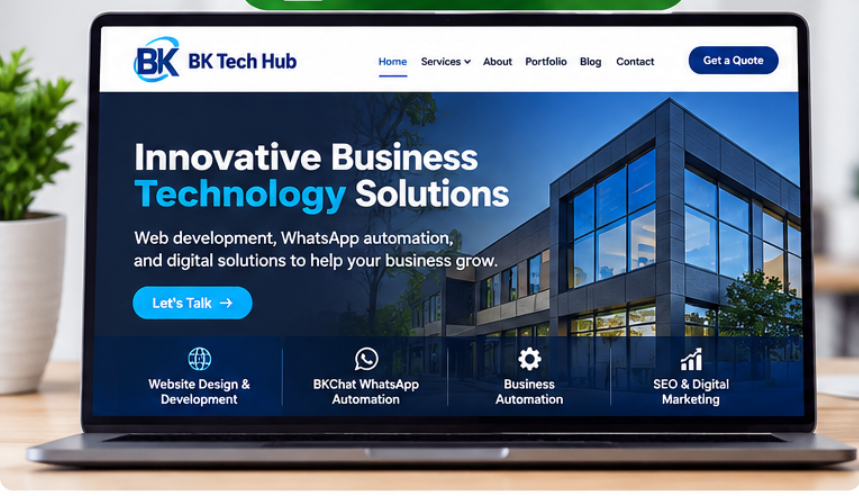
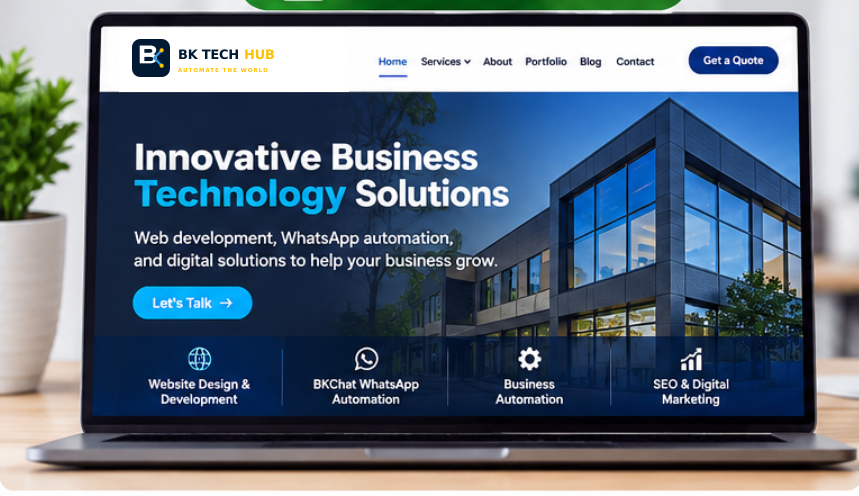
Update service image and alt text in WebsiteCreationPage component

Changed region(s): [[0.1513, 0.0605, 0.3632, 0.1815]]

diff --git a/frontend/components/services/website-creation-page.tsx b/frontend/components/services/website-creation-page.tsx
@@ -7,7 +7,7 @@ import { Button } from "@/components/ui/button";
 import { websiteCreationContent } from "@/content/website-creation";
 import { getWhatsAppUrl } from "@/lib/whatsapp";
 
-const serviceImage = "/images/marketing/service-websites.jpg";
+const serviceImage = "/images/site/website-concept-bktechhub.png";
 
 export function WebsiteCreationPage() {
   const content = websiteCreationContent;
@@ -45,7 +45,7 @@ export function WebsiteCreationPage() {
             <div className="relative aspect-[4/3] overflow-hidden rounded-[2rem] border border-white/15 shadow-2xl">
               <Image
                 src={serviceImage}
-                alt="Website design and development workspace"
+                alt="Polished BK Tech Hub website displayed on a laptop"
                 fill
                 priority
                 className="object-cover"
